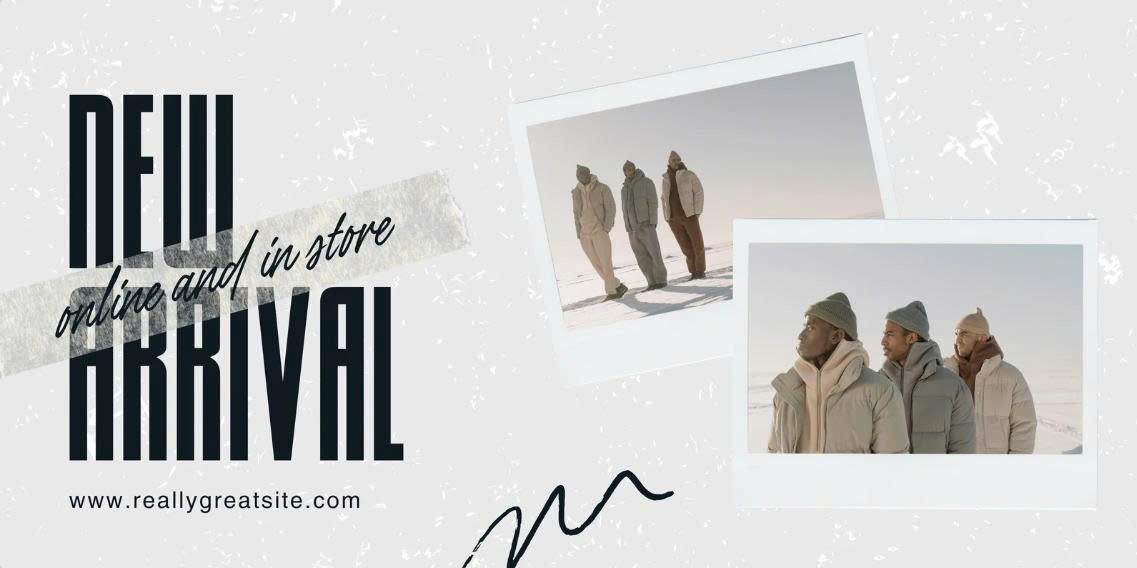
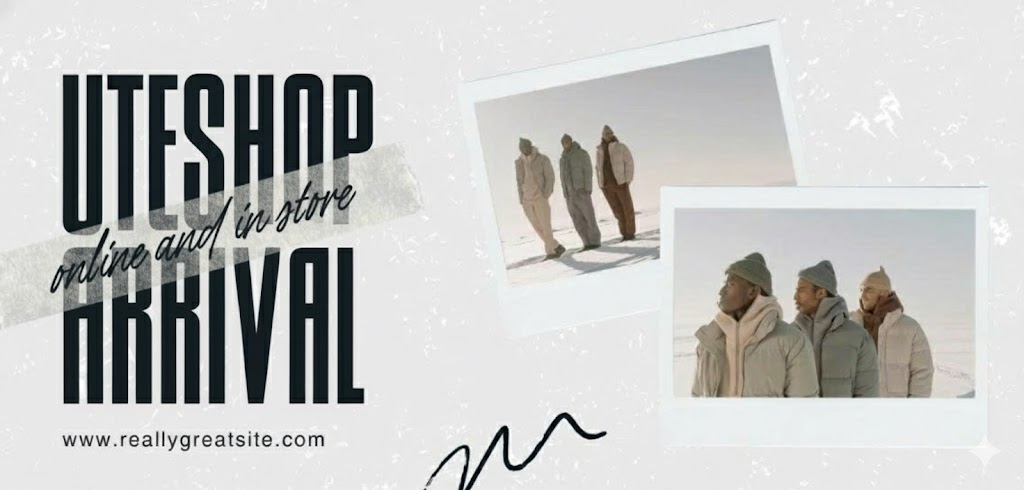
readme

diff --git a/README.md b/README.md
@@ -1,0 +1,128 @@
+# 🛍 UTEShop
+
+**UTEShop** is an **e-commerce web application** that allows users to **buy shirts online** quickly, conveniently, and securely.  
+The project is built using **ReactJS**, **TypeScript**, with styling powered by **TailwindCSS** and **Bootstrap** for a clean and responsive UI.
+
+---
+
+## 🚀 Key Features
+
+- 👕 Browse and search shirts by category, style, and size.  
+- 🛒 Add products to the shopping cart and proceed to checkout.  
+- ❤ Manage favorites, view and submit feedback or reviews.  
+- 🔐 User authentication (register, login, OTP verification, password recovery).  
+- 📦 Manage and track orders.  
+- 🔔 Real-time notifications using Socket.io.  
+- 🌗 Modern, responsive design that works across all devices.
+
+---
+
+## 🧩 Technologies Used
+
+| Technology | Purpose |
+|-------------|----------|
+| **ReactJS** | Frontend UI development |
+| **TypeScript** | Strong typing and better code maintainability |
+| **TailwindCSS** | Fast and flexible utility-first styling |
+| **Bootstrap** | UI layout and component framework |
+| **Redux Toolkit** | Global state management |
+| **Axios** | API communication |
+| **Socket.io** | Real-time interaction and notifications |
+
+---
+
+## ⚙ System Requirements
+
+- **Node.js** ≥ 18  
+- **npm** ≥ 9
+
+---
+
+## 🧠 Project Structure
+
+**Root Path:** `d:\hk1-nam4\PMM\user\Project_Team_Frontend`
+
+```
+├── 📁 frontend
+│   ├── 📁 public
+│   ├── 📁 src
+│   │   ├── 📁 assets
+│   │   ├── 📁 components
+│   │   ├── 📁 context
+│   │   ├── 📁 dto
+│   │   ├── 📁 hooks
+│   │   ├── 📁 redux
+│   │   ├── 📁 services
+│   │   ├── 📁 socket
+│   │   ├── 📄 App.tsx
+│   │   ├── 📄 index.tsx
+│   │   └── 🎨 index.css
+│   ├── ⚙ package.json
+│   └── 📝 README.md
+├── ⚙ package-lock.json
+└── ⚙ package.json
+```
+
+> *Full structure was auto-generated by FileTree Pro Extension.*
+
+---
+
+## 🏃♂ How to Run the Project
+
+1. **Clone the repository:**
+   ```bash
+   git clone <repository-url>
+   ```
+
+2. **Navigate to the frontend directory:**
+   ```bash
+   cd frontend
+   ```
+
+3. **Install dependencies:**
+   ```bash
+   npm install
+   ```
+
+4. **Start the development server:**
+   ```bash
+   npm start
+   ```
+
+5. **Open in browser:**
+   ```
+   http://localhost:3000
+   ```
+
+---
+
+## 📁 Directory Overview
+
+| Directory | Description |
+|------------|-------------|
+| `src/components/` | Main UI components (header, footer, product, auth, cart, etc.) |
+| `src/context/` | Context API for authentication and cart management |
+| `src/redux/` | Global state management with Redux Toolkit |
+| `src/services/` | Handles API calls to backend services |
+| `src/assets/` | Fonts and images |
+| `src/hooks/` | Custom React hooks |
+| `src/socket/` | Socket.io client configuration |
+
+---
+
+## 👨💻 Development Team
+
+- **Ho Chi Minh City University of Technology and Education (HCMUTE)**  
+- Academic Project: *E-Commerce Web Application Development*  
+- Development Period: 2025  
+
+---
+
+## 📄 License
+
+This project is intended **for educational and research purposes only**.  
+Please do not use it for commercial purposes without permission from the development team.
+
+---
+
+🧡 *Thank you for checking out UTEShop!*
